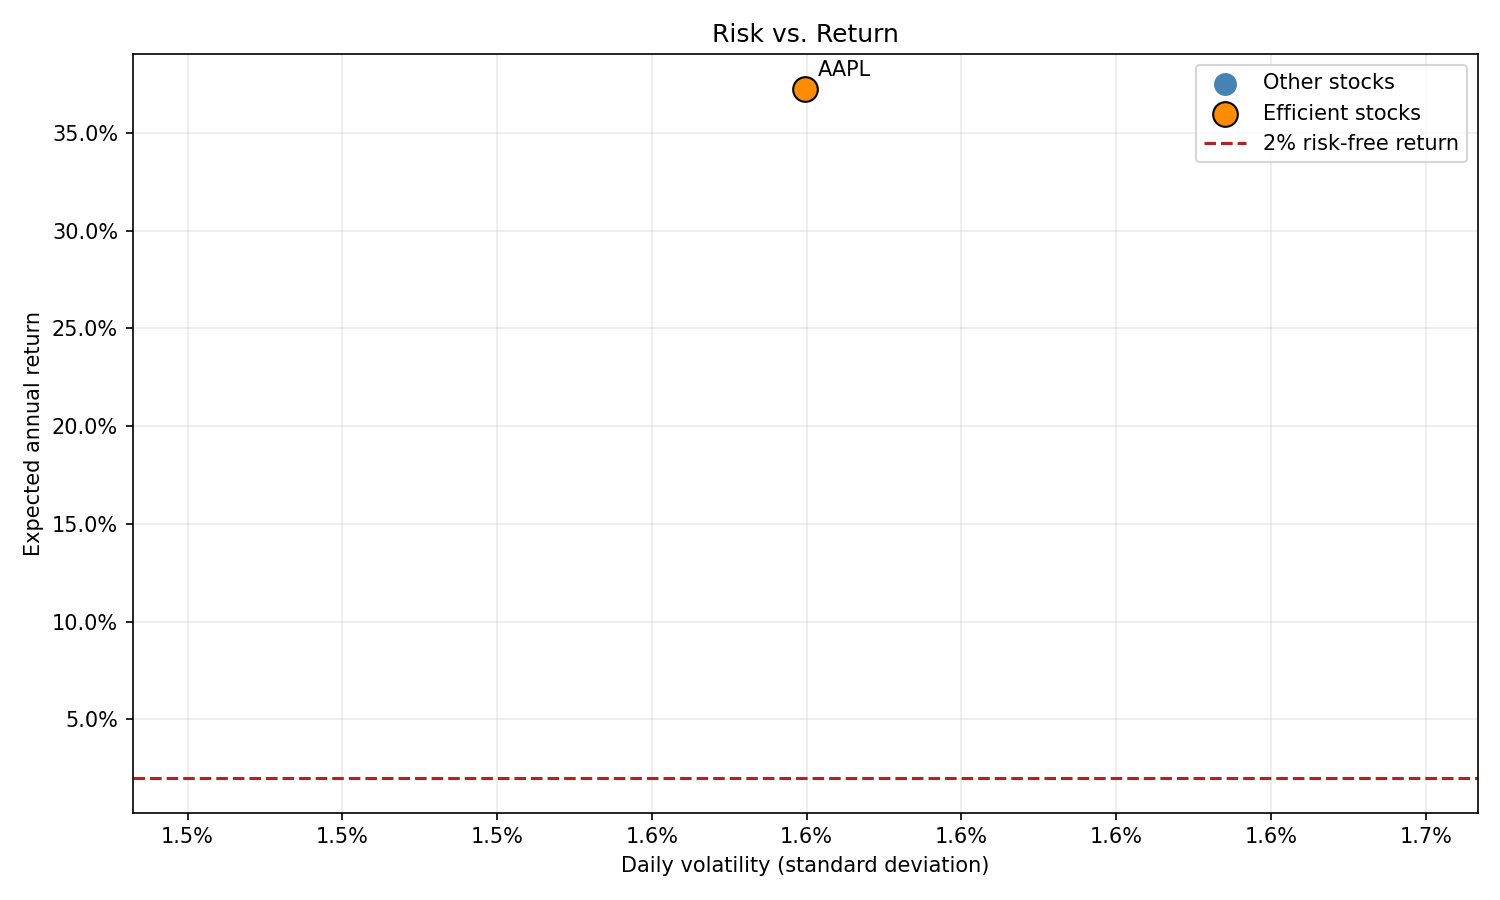
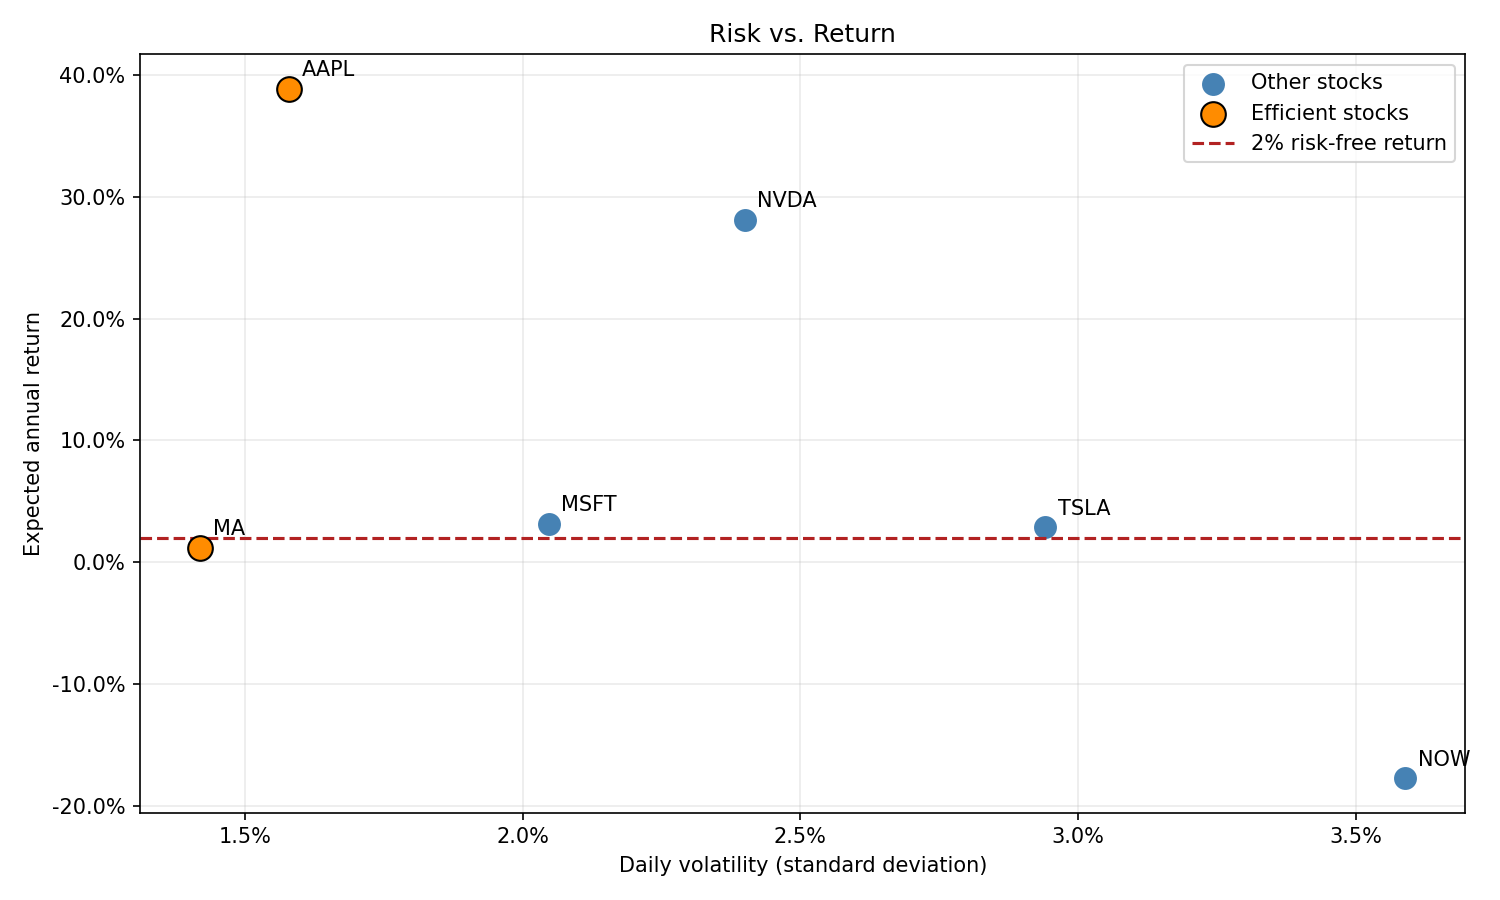
delta degrees of freedom, lots of new information!

diff --git a/risk_return_analyzer.py b/risk_return_analyzer.py
@@ -79,19 +79,21 @@ def download_prices(ticker: str) -> pd.Series:
 
 def calculate_metrics(ticker: str, prices: pd.Series) -> StockMetrics:
     """Calculate return, risk-adjusted ratios, and drawdown."""
-    daily_returns = prices.pct_change().dropna()
-    annual_return = daily_returns.mean() * TRADING_DAYS_PER_YEAR
-    daily_volatility = daily_returns.std()
+    daily_returns = prices.pct_change().dropna() # Daily returns. 
+    annual_return = daily_returns.mean() * TRADING_DAYS_PER_YEAR # Mean of daily returns * trading days yields annual return.
+    daily_volatility = daily_returns.std() # Standard deviation of daily returns yields volatility. 
 
-    # Annualize volatility so the Sharpe numerator and denominator share a time
-    # scale, even though the summary table reports daily volatility.
+    # Sharpe ratio calculation (annual return - risk free rate) / annualized volatility.
+
     annualized_volatility = daily_volatility * np.sqrt(TRADING_DAYS_PER_YEAR)
     sharpe_ratio = (annual_return - RISK_FREE_RATE) / annualized_volatility
 
-    # Sortino penalizes returns below the daily risk-free hurdle only.
-    daily_risk_free_rate = RISK_FREE_RATE / TRADING_DAYS_PER_YEAR
-    downside_returns = daily_returns[daily_returns < daily_risk_free_rate] - daily_risk_free_rate
-    downside_deviation = tstd(downside_returns, ddof=1) if len(downside_returns) > 1 else 0.0
+
+
+    daily_risk_free_rate = RISK_FREE_RATE / TRADING_DAYS_PER_YEAR # Daily risk free risk rate derived from total trading day count. 
+    downside_returns = daily_returns[daily_returns < daily_risk_free_rate] - daily_risk_free_rate # Looking for filtered returns that are < than daily risk free rate; aforementioned value is then substracted with the daily risk free rate for a positive to negative conversion.
+    downside_deviation = tstd(downside_returns, ddof=1) if len(downside_returns) > 1 else 0.0 # Ensures that there are more than 1 days for comparison. Swing of standard deviation (extent) is determined. 
+    # I'm learning about the delta degrees of freedom parameter that, when set to one, actually takes into context historical data (sample standard deviation)! - Risk determination
     annualized_downside_deviation = downside_deviation * np.sqrt(TRADING_DAYS_PER_YEAR)
     sortino_ratio = (
         (annual_return - RISK_FREE_RATE) / annualized_downside_deviation
